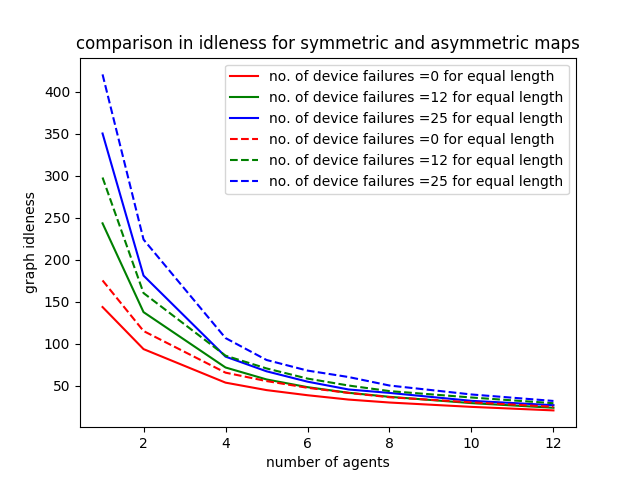
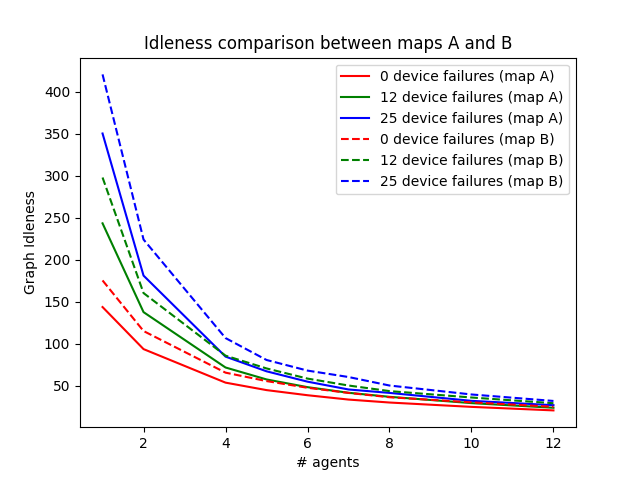
updates

diff --git a/conscientious_reactive/compare_idleness.py b/conscientious_reactive/compare_idleness.py
@@ -3,8 +3,8 @@ import matplotlib.pyplot as plt
 import xlsxwriter
 import numpy as np
 import os
-rootdir1 ='/home/arms03/Documents/patrolling_vishwajeet_dikshant/pat_code/conscientious_reactive/dual_failure_random_dead/data_3/'
-rootdir2 = '/home/arms03/Documents/patrolling_vishwajeet_dikshant/pat_code/conscientious_reactive/dual_failure_random_dead_asymmetric_length/data/'
+rootdir1 ='/home/dikshant/github/pat_code/conscientious_reactive/dual_failure_random_dead/data_3/'
+rootdir2 = '/home/dikshant/github/pat_code/conscientious_reactive/dual_failure_random_dead_asymmetric_length/data/'
 
 cars =  [1, 2, 4, 5, 6, 7, 8, 10, 12]
 deads = [0,12,25]
@@ -28,11 +28,11 @@ for dead in deads:
 		# std.append(np.std(graph_idlness))
 	print(avg)
 	if check == 0:
-		plt.plot(cars, avg, 'r-',label ="no. of device failures ="+str(dead)+" for equal length")
+		plt.plot(cars, avg, 'r-',label =str(dead)+" device failures (map A)")
 	elif check == 1:
-		plt.plot(cars, avg, 'g-',label ="no. of device failures ="+str(dead)+" for equal length")
+		plt.plot(cars, avg, 'g-',label =str(dead)+" device failures (map A)")
 	else:
-		plt.plot(cars, avg, 'b-',label ="no. of device failures ="+str(dead)+" for equal length")
+		plt.plot(cars, avg, 'b-',label =str(dead)+" device failures (map A)")
 	check += 1
 	plt.draw()
 check = 0
@@ -53,20 +53,20 @@ for dead in deads:
 		# std.append(np.std(graph_idlness))
 	print(avg)
 	if check == 0:
-		plt.plot(cars, avg, 'r--',label ="no. of device failures ="+str(dead)+" for equal length")
+		plt.plot(cars, avg, 'r--',label =str(dead)+" device failures (map B)")
 	elif check == 1:
-		plt.plot(cars, avg, 'g--',label ="no. of device failures ="+str(dead)+" for equal length")
+		plt.plot(cars, avg, 'g--',label =str(dead)+" device failures (map B)")
 	else:
-		plt.plot(cars, avg, 'b--',label ="no. of device failures ="+str(dead)+" for equal length")
+		plt.plot(cars, avg, 'b--',label =str(dead)+" device failures (map B)")
 	check += 1
 	plt.draw()
 # plt.plot(cars, avg, 'b--')
 # for i in range(len(avgs)):
 # 	plt.plot(cars, avgs[i], label ="no of device failures ="+str(i*2))
 # plt.errorbar(cars, avg,yerr=std,  fmt='o', ecolor='g', capthick=1.0)
-plt.title("comparison in idleness for symmetric and asymmetric maps")
-plt.xlabel("number of agents")
-plt.ylabel("graph idleness")
+plt.title("Idleness comparison between maps A and B")
+plt.xlabel("# agents")
+plt.ylabel("Graph Idleness")
 plt.legend()
 # plt.show()
 plt.savefig('final.png', dpi = 100)

diff --git a/conscientious_reactive/dual_failure_random_dead/graphsmaker/max_min.py b/conscientious_reactive/dual_failure_random_dead/graphsmaker/max_min.py
@@ -14,15 +14,20 @@ avgs = []
 for dead in deads:
 	avg = []
 	std = []
+    max_val = []
+    min_val = []
 	for car in cars:
 		path = rootdir+'cr'+str(car)+'/'+str(dead)+'devices_failed/'
 		runs = []
 		instantaneous_node_idleness =[]
+        max_val = []
+        min_val = []
 		for i in range(num_runs):
 			#print(path+'run'+str(i)+'/run.xlsx')
 			runs.append(np.array(pd.read_excel(pd.ExcelFile(path+'run'+str(i)+'/run.xlsx'))))
 			runs[i] = runs[i][0:][:,1:]
 			instantaneous_node_idleness.append(np.mean(runs[i],axis=1))
+            max_val.append(np.max(runs[i])
 		graph_idlness = np.mean(instantaneous_node_idleness,axis=1)
 		avg.append(np.mean(graph_idlness))
 		std.append(np.std(graph_idlness))

diff --git a/conscientious_reactive/dual_failure_random_dead/graphsmaker/max.py b/conscientious_reactive/dual_failure_random_dead/graphsmaker/max.py
@@ -9,7 +9,7 @@ cars =  [1, 2, 3, 4, 5, 6, 7, 8, 9, 10, 12]
 deads = [0,5,12,20,25]
 num_runs = 8
 plt.figure()
-
+# ignore the terminologies
 for dead in deads:
 	avg = []
 	std = []
@@ -26,7 +26,7 @@ for dead in deads:
 		avg.append(np.max(graph_idlness))
 	# 	# std.append(np.std(graph_idlness))
 	print(avg)
-	plt.plot(cars, avg, label =str(dead)+'failures')
+	plt.plot(cars, avg, label =str(dead)+' failures')
 	plt.draw()
 	
 
